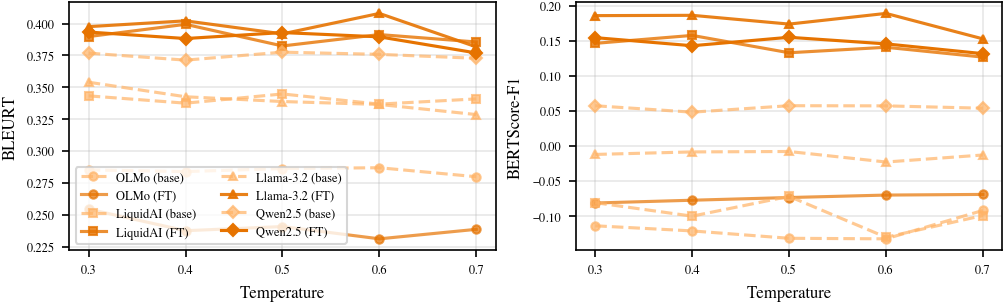
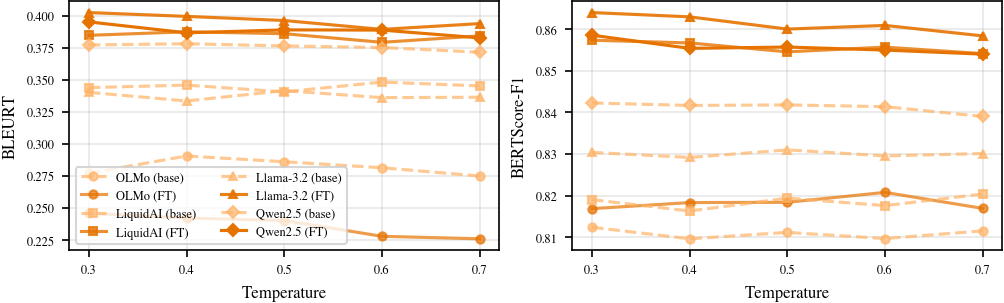
fix: temp sweep BERT results

diff --git a/modules/plot_temperature.py b/modules/plot_temperature.py
@@ -7,9 +7,8 @@ for baseline vs fine-tuned models.
 
 import pandas as pd
 import matplotlib.pyplot as plt
-import numpy as np
 from pathlib import Path
-from typing import Dict, List, Tuple, Optional
+from typing import Dict, Tuple, Optional
 
 from .helpers import discover_model_directories, get_model_name, get_figsize
 
@@ -123,66 +122,6 @@ def create_temperature_sweep_plot(
     return fig
 
 
-def create_temperature_heatmap(
-    root_dir: Path,
-    output_path: Optional[Path] = None,
-    figsize: Tuple[float, float] = (10, 6),
-    dpi: int = 150
-) -> plt.Figure:
-    """
-    Create heatmap showing BLEURT improvement (FT - baseline) across temps and models.
-    """
-    data = load_temperature_sweep_data(root_dir)
-    
-    if not data:
-        raise ValueError("No temperature sweep data found")
-    
-    model_names = list(data.keys())
-    temperatures = [0.3, 0.4, 0.5, 0.6, 0.7]
-    
-    # Build improvement matrix
-    improvement_matrix = np.zeros((len(model_names), len(temperatures)))
-    
-    for i, model_name in enumerate(model_names):
-        df = data[model_name]
-        baseline = df[df["model_type"] == "baseline"].sort_values("temperature")
-        finetuned = df[df["model_type"] == "finetuned"].sort_values("temperature")
-        
-        for j, temp in enumerate(temperatures):
-            base_val = baseline[baseline["temperature"] == temp]["bleurt"].values
-            ft_val = finetuned[finetuned["temperature"] == temp]["bleurt"].values
-            
-            if len(base_val) > 0 and len(ft_val) > 0:
-                improvement_matrix[i, j] = ft_val[0] - base_val[0]
-    
-    fig, ax = plt.subplots(figsize=figsize, constrained_layout=True)
-    
-    im = ax.imshow(improvement_matrix, cmap="RdYlGn", aspect="auto", vmin=-0.05, vmax=0.1)
-    
-    ax.set_xticks(range(len(temperatures)))
-    ax.set_xticklabels([str(t) for t in temperatures])
-    ax.set_yticks(range(len(model_names)))
-    ax.set_yticklabels(model_names)
-    
-    ax.set_xlabel("Temperature")
-    ax.set_ylabel("Model")
-    
-    # Add text annotations
-    for i in range(len(model_names)):
-        for j in range(len(temperatures)):
-            val = improvement_matrix[i, j]
-            color = "white" if abs(val) > 0.03 else "black"
-            ax.text(j, i, f"{val:+.3f}", ha="center", va="center", color=color, fontsize=8)
-    
-    cbar = fig.colorbar(im, ax=ax, label="BLEURT Δ (FT - Baseline)")
-    
-    if output_path:
-        fig.savefig(output_path, dpi=dpi, bbox_inches="tight")
-        print(f"Saved temperature heatmap to: {output_path}")
-    
-    return fig
-
-
 def generate_latex_table(root_dir: Path) -> str:
     """Generate LaTeX table for temperature sweep results."""
     data = load_temperature_sweep_data(root_dir)
@@ -251,10 +190,6 @@ if __name__ == "__main__":
     # Generate plot
     output_path = root_dir / "temperature_sweep_comparison.png"
     fig = create_temperature_sweep_plot(root_dir, output_path)
-    
-    # Generate heatmap
-    heatmap_path = root_dir / "temperature_sweep_heatmap.png"
-    fig2 = create_temperature_heatmap(root_dir, heatmap_path)
     
     # Generate LaTeX table
     latex = generate_latex_table(root_dir)
